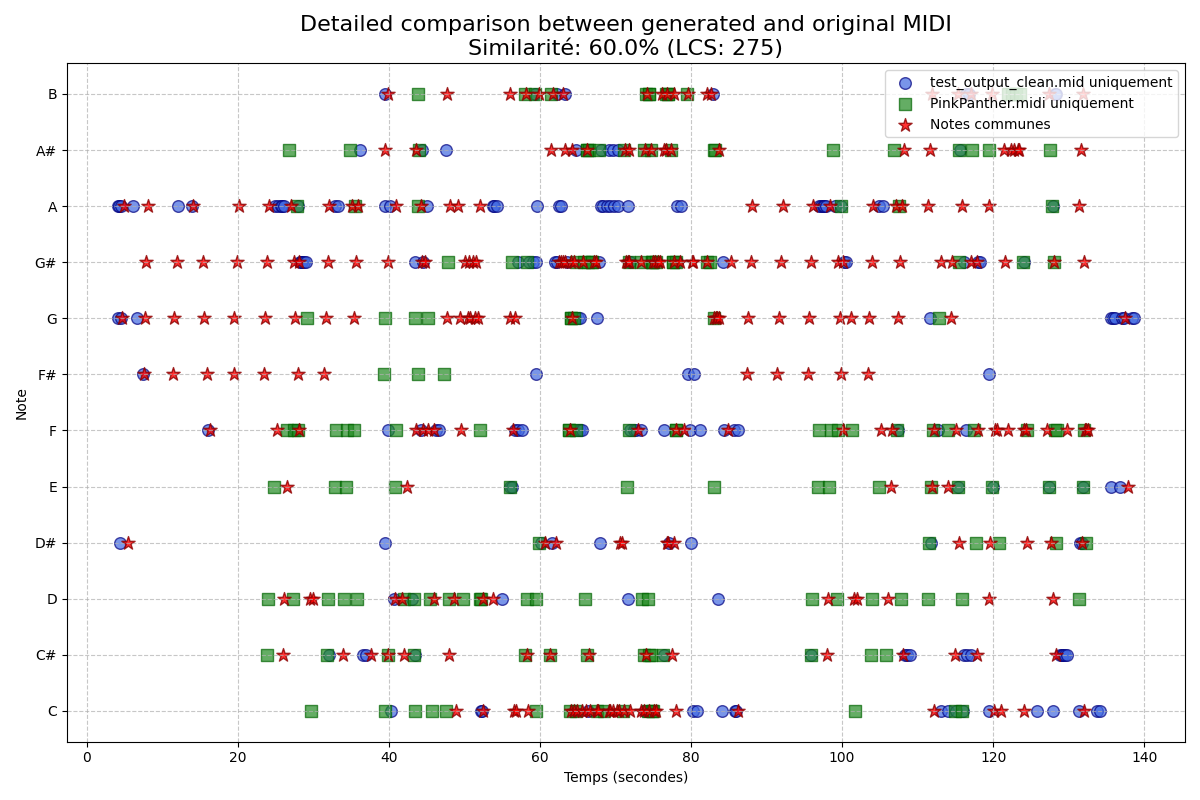
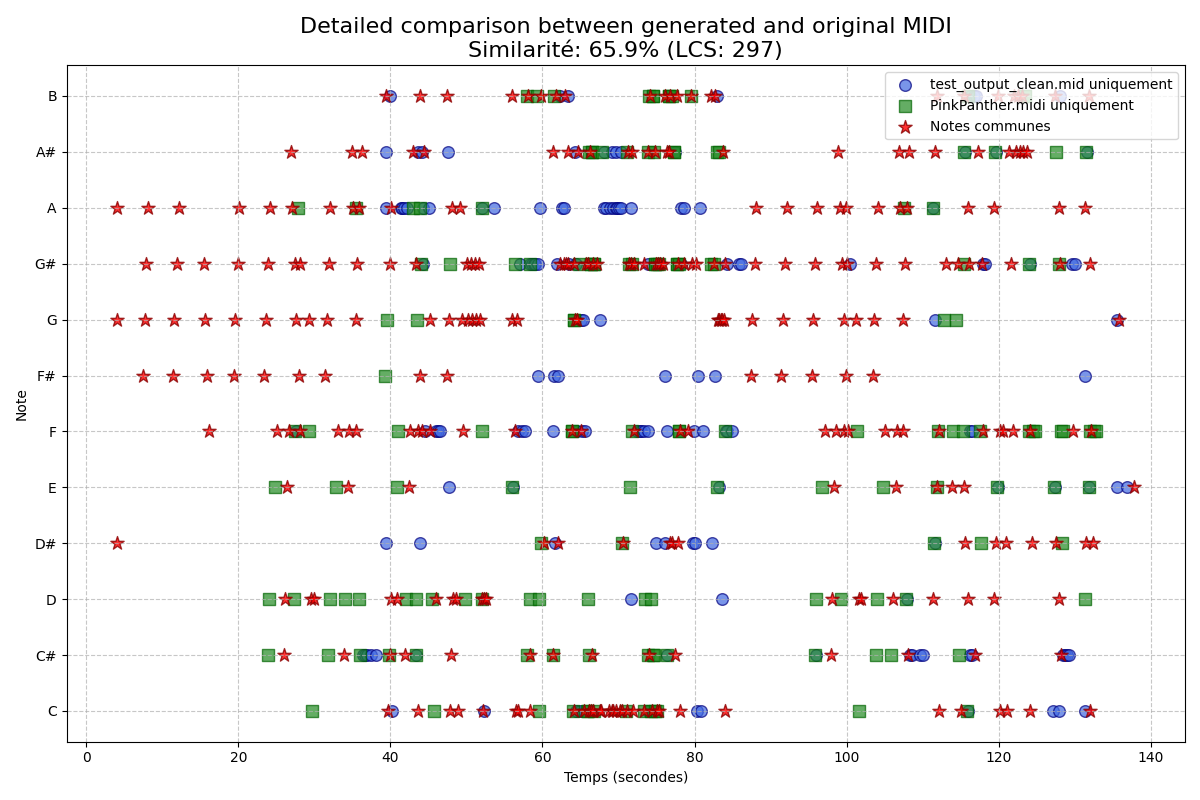
piano v trumpet 100% efficiency ??

diff --git a/src/FFT.py b/src/FFT.py
@@ -27,7 +27,7 @@ NOTE_NAMES = ["do", "do#", "ré", "ré#", "mi", "fa", "fa#", "sol", "sol#", "la"
 STEP_NUMBER = int(len(audio)/FFT_WINDOW_SIZE)
 
 BASE_TRESH = 150000
-ANY_TRESH = 7000
+ANY_TRESH = 3000
 
 def extract_sample(audio, step):    #exctrats window size sample from audio with zero-padding
     end = step*FFT_WINDOW_SIZE
@@ -249,7 +249,7 @@ def freq_anal(values):
 
                 fraction =  note.frequency/base_note.frequency
                 fraction_excess = (fraction+0.5) %1 -0.5
-                fraction_int = int(fraction-fraction_excess)
+                fraction_int = round(fraction)
 
                 #if timeNote.step == 170:
                 #    print(fraction_int,base_note.frequency,note,fraction_excess)
@@ -267,18 +267,33 @@ def freq_anal(values):
         piano_comparison_mean = [0, np.float64(1.0), np.float64(0.6327285648288827), np.float64(0.2647386789612746), np.float64(0.17201458476639642), np.float64(0.13515905554207736), np.float64(0.10292263867561052), np.float64(0.11210653450368742), np.float64(0.08744076515106432)]
         trumpet_comparison_mean = [0, np.float64(1.0), np.float64(0.992499293761613), np.float64(0.6459633061734135), np.float64(0.31838611332848116), np.float64(0.21360601223562686), np.float64(0.11931605750938493), np.float64(0.08316339062309164), np.float64(0.0701687057473084)]
 
-        piano_comparison = [[], np.float64(1.0), np.float64(0.4814294293182334), np.float64(0.10392308167988006), np.float64(0.10060534116654808), np.float64(0.08918406948375554), np.float64(0.044676543080990186), np.float64(0.07514166966407616), np.float64(0.034217232045258665)]
-        trumpet_comparison = [[], np.float64(1.0), np.float64(1.0562095347338256), np.float64(0.7313740805027068), np.float64(0.2588301447131931), np.float64(0.15505121616392709), np.float64(0.07352018582192671), np.float64(0.0465575078627254), np.float64(0.030314936431951517)]
+        piano_comparison_median = [[], np.float64(1.0), np.float64(0.4814294293182334), np.float64(0.10392308167988006), np.float64(0.10060534116654808), np.float64(0.08918406948375554), np.float64(0.044676543080990186), np.float64(0.07514166966407616), np.float64(0.034217232045258665)]
+        trumpet_comparison_median = [[], np.float64(1.0), np.float64(1.0562095347338256), np.float64(0.7313740805027068), np.float64(0.2588301447131931), np.float64(0.15505121616392709), np.float64(0.07352018582192671), np.float64(0.0465575078627254), np.float64(0.030314936431951517)]
+
+        piano_comparison = piano_comparison_median
+        trumpet_comparison = trumpet_comparison_median
 
         for bunch in result:
-            piano_indice = 0
-            trumpet_indice = 0
+            piano_indice:float = 0
+            trumpet_indice:float = 0
 
             base_freq = bunch[0][1].amplitude
             for freq in bunch:
-                if freq[0]<= 3:
+                if 0<freq[0]<= 3:
+
+                    """
                     piano_indice += abs(piano_comparison[freq[0]]-(freq[1].amplitude/base_freq))
                     trumpet_indice += abs(trumpet_comparison[freq[0]]-(freq[1].amplitude/base_freq))
+                    """
+                    """
+                    piano_indice += np.log(abs(1+piano_comparison[freq[0]]*base_freq-freq[1].amplitude))/freq[0]
+                    trumpet_indice += np.log(abs(1+trumpet_comparison[freq[0]]*base_freq-freq[1].amplitude))/freq[0]
+                    """
+                    piano_indice += np.log(piano_comparison[freq[0]]*base_freq / freq[1].amplitude)
+                    trumpet_indice += np.log(trumpet_comparison[freq[0]]*base_freq / freq[1].amplitude)
+
+                    print("piano_indice:",piano_indice)
+
                     #print("pian",piano_comparison[freq[0]]-(freq[1].amplitude/base_freq))
                     #print("trum",trumpet_comparison[freq[0]]-(freq[1].amplitude/base_freq))
             #print("piano",piano_indice)
